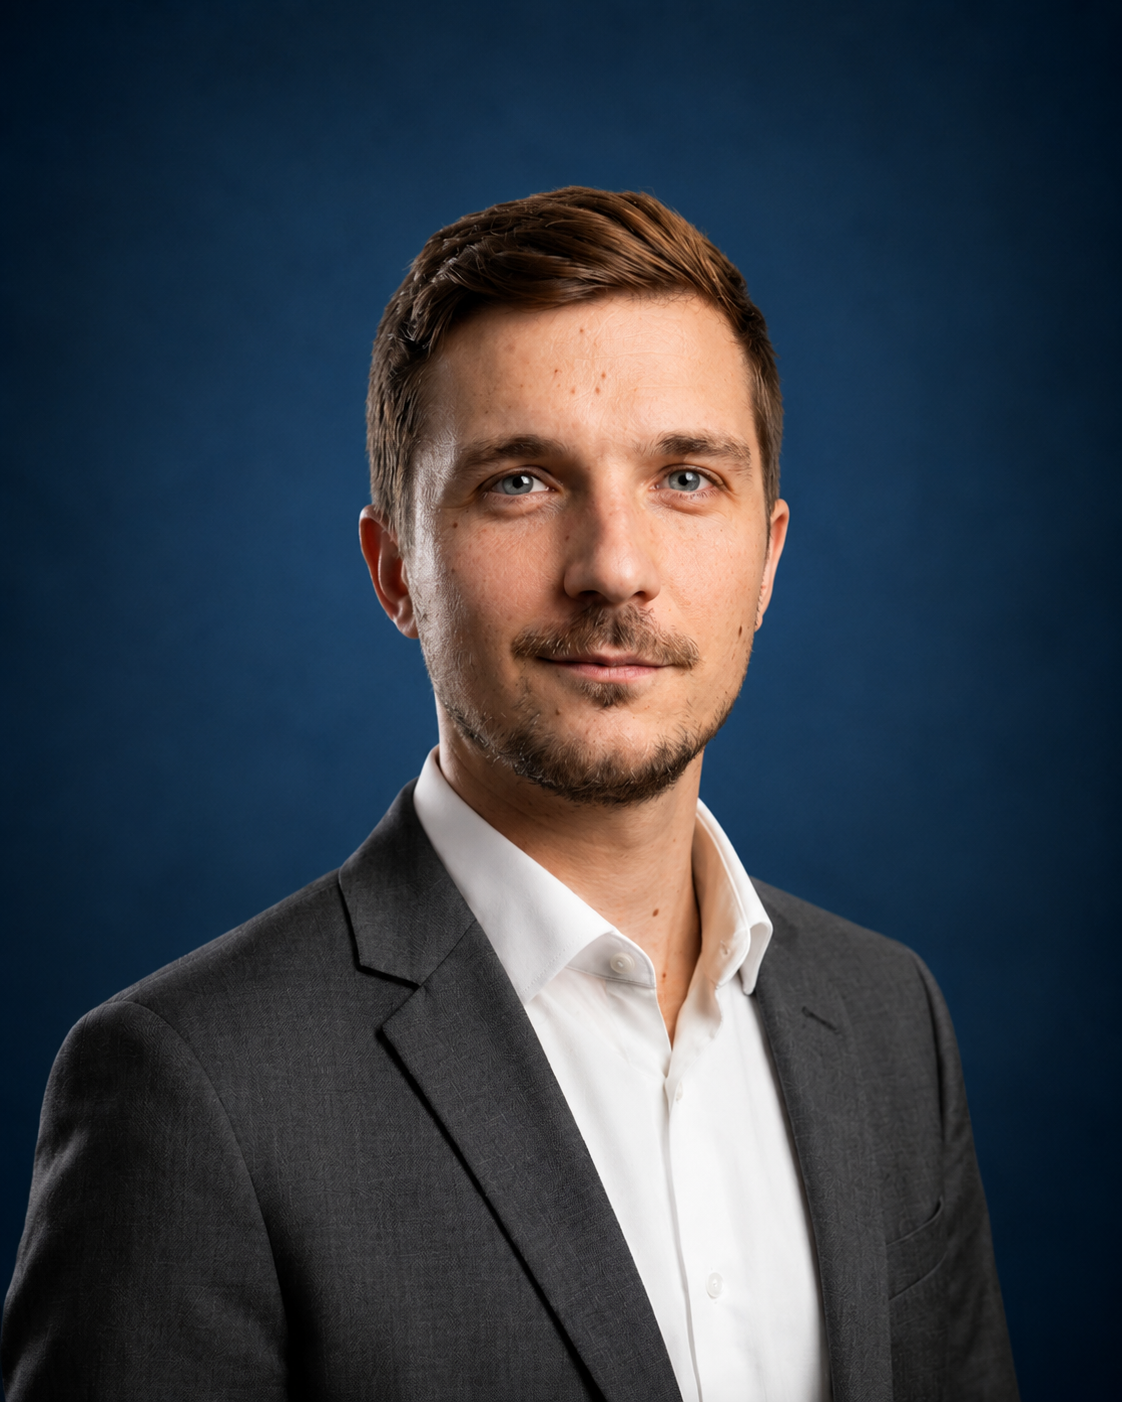
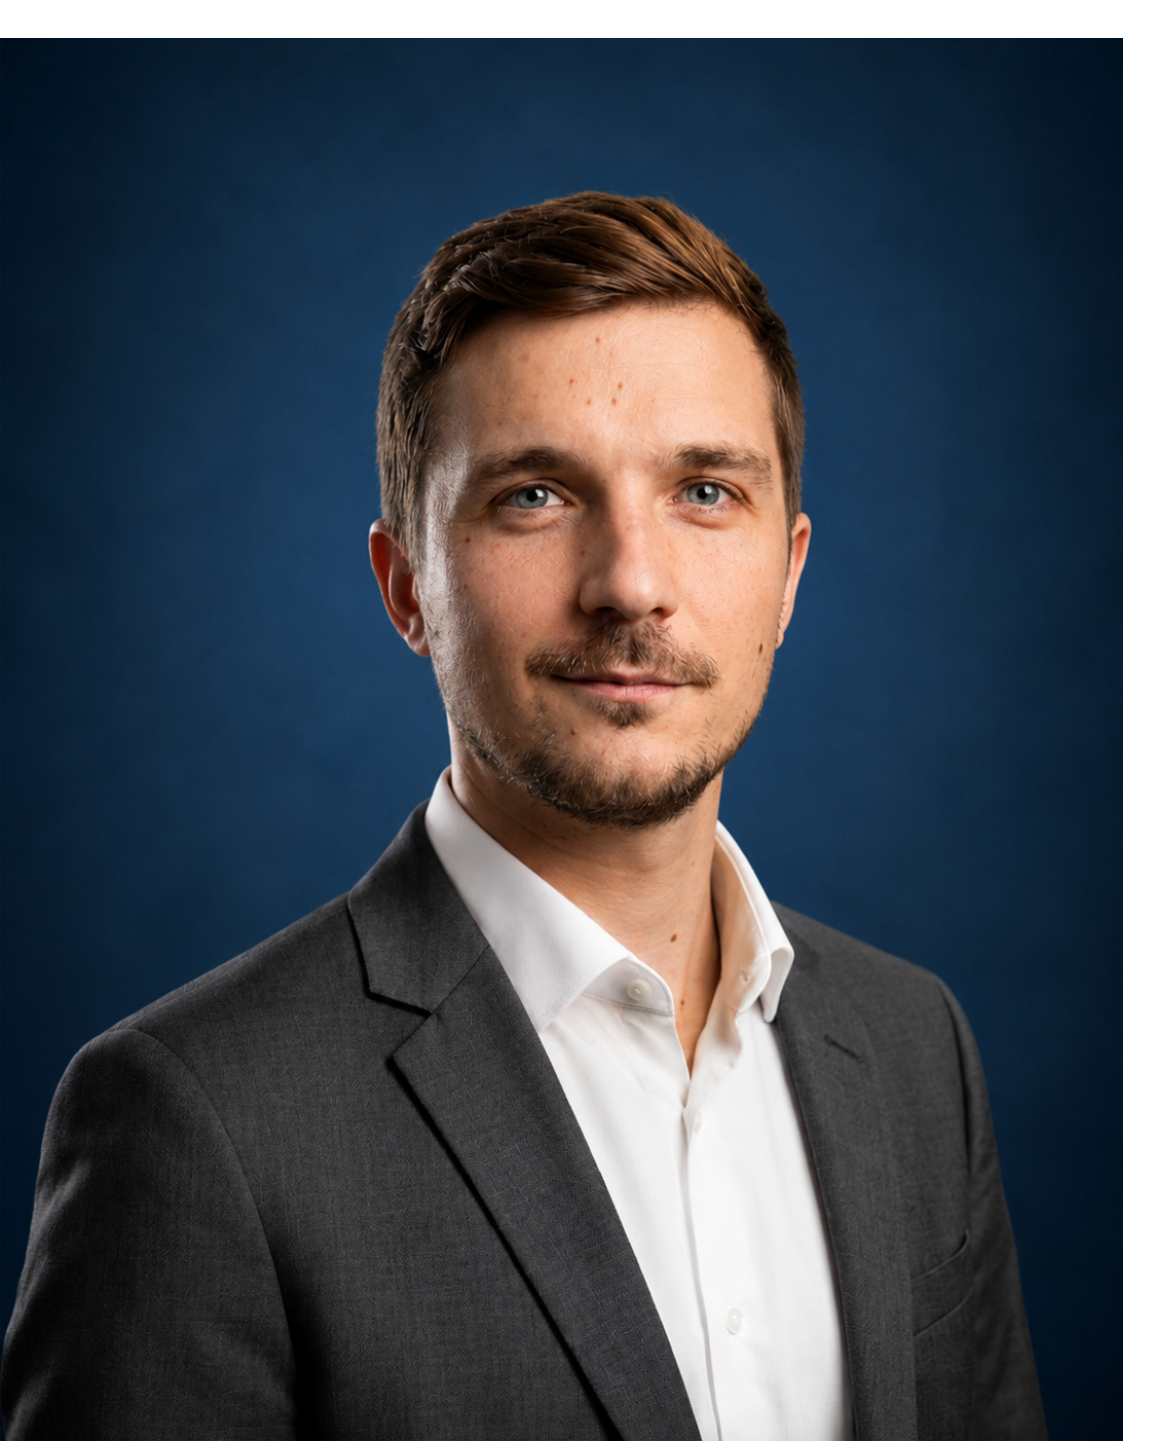
remove colored profile tint and neutralize team visuals
Use a neutral avatar overlay/ring in the Team section and include updated Daniele/Giuliano profile images.

Changed region(s): [[0.0, 0.0, 1.0, 1.0]]

diff --git a/components/Team.tsx b/components/Team.tsx
@@ -9,7 +9,6 @@ export const Team = () => {
       role: 'Co-founder',
       image: '/images/antonio.png',
       accentColor: '#34d399', // emerald
-      gradient: 'from-emerald-400 to-cyan-500',
     },
     {
       id: 'daniele',
@@ -17,7 +16,6 @@ export const Team = () => {
       role: 'Co-founder',
       image: '/images/daniele.png',
       accentColor: '#a78bfa', // violet
-      gradient: 'from-violet-400 to-purple-600',
     },
     {
       id: 'giuliano',
@@ -25,7 +23,6 @@ export const Team = () => {
       role: 'Co-founder',
       image: '/images/giuliano.png',
       accentColor: '#38bdf8', // sky
-      gradient: 'from-sky-400 to-blue-600',
     },
   ];
 
@@ -63,13 +60,13 @@ export const Team = () => {
               <div className="relative mb-6">
                 {/* Outer rotating/glowing ring on hover */}
                 <div
-                  className={`absolute -inset-1 rounded-full bg-gradient-to-tr ${member.gradient} opacity-0 group-hover:opacity-40 blur-md transition-all duration-700 group-hover:duration-300`}
+                  className="absolute -inset-1 rounded-full bg-gradient-to-tr from-white/40 to-slate-300/20 opacity-0 group-hover:opacity-40 blur-md transition-all duration-700 group-hover:duration-300"
                 />
 
                 {/* Avatar wrapper */}
                 <div className="relative w-48 h-48 lg:w-56 lg:h-56 rounded-full overflow-hidden border border-white/10 bg-slate-900 shadow-2xl transition-transform duration-500 group-hover:scale-[1.03]">
                   {/* Inner subtle glow */}
-                  <div className={`absolute inset-0 bg-gradient-to-tr ${member.gradient} opacity-20 mix-blend-overlay z-10`} />
+                  <div className="absolute inset-0 bg-gradient-to-b from-white/5 via-transparent to-slate-900/10 z-10" />
 
                   <img
                     src={member.image}
